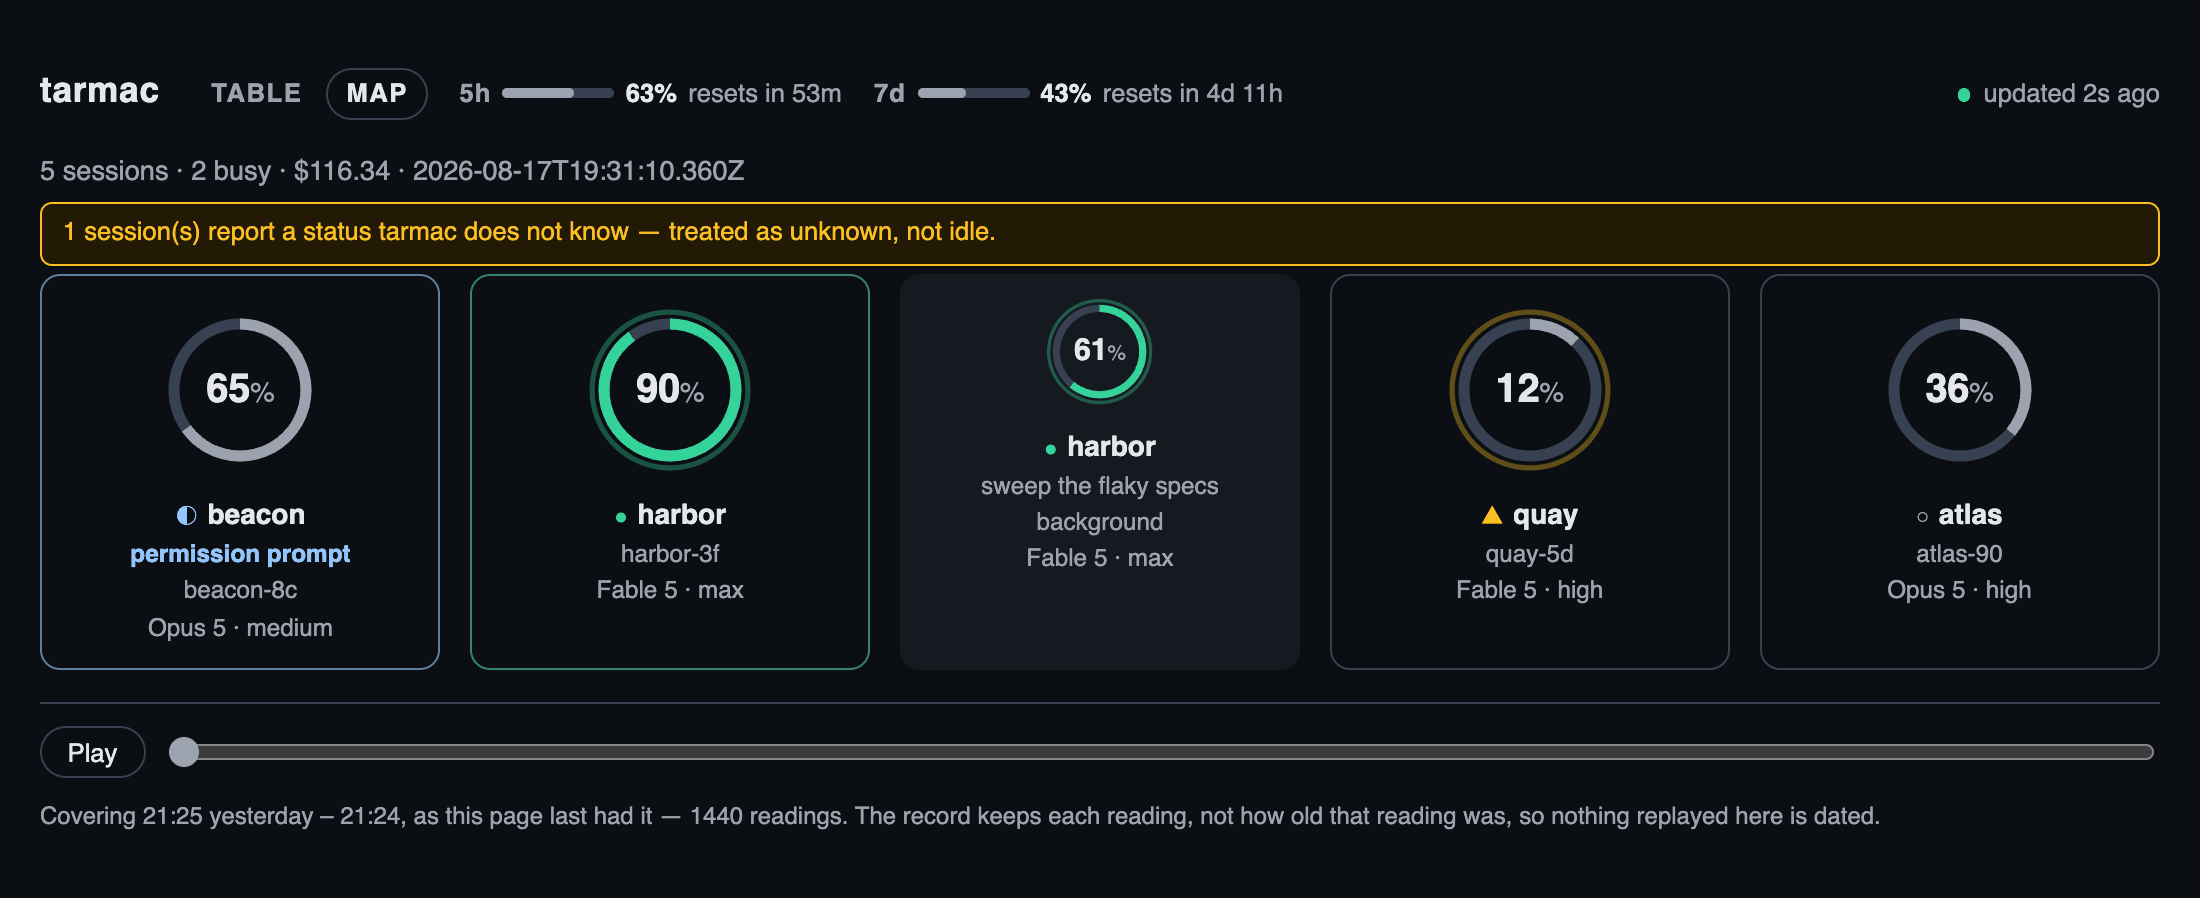
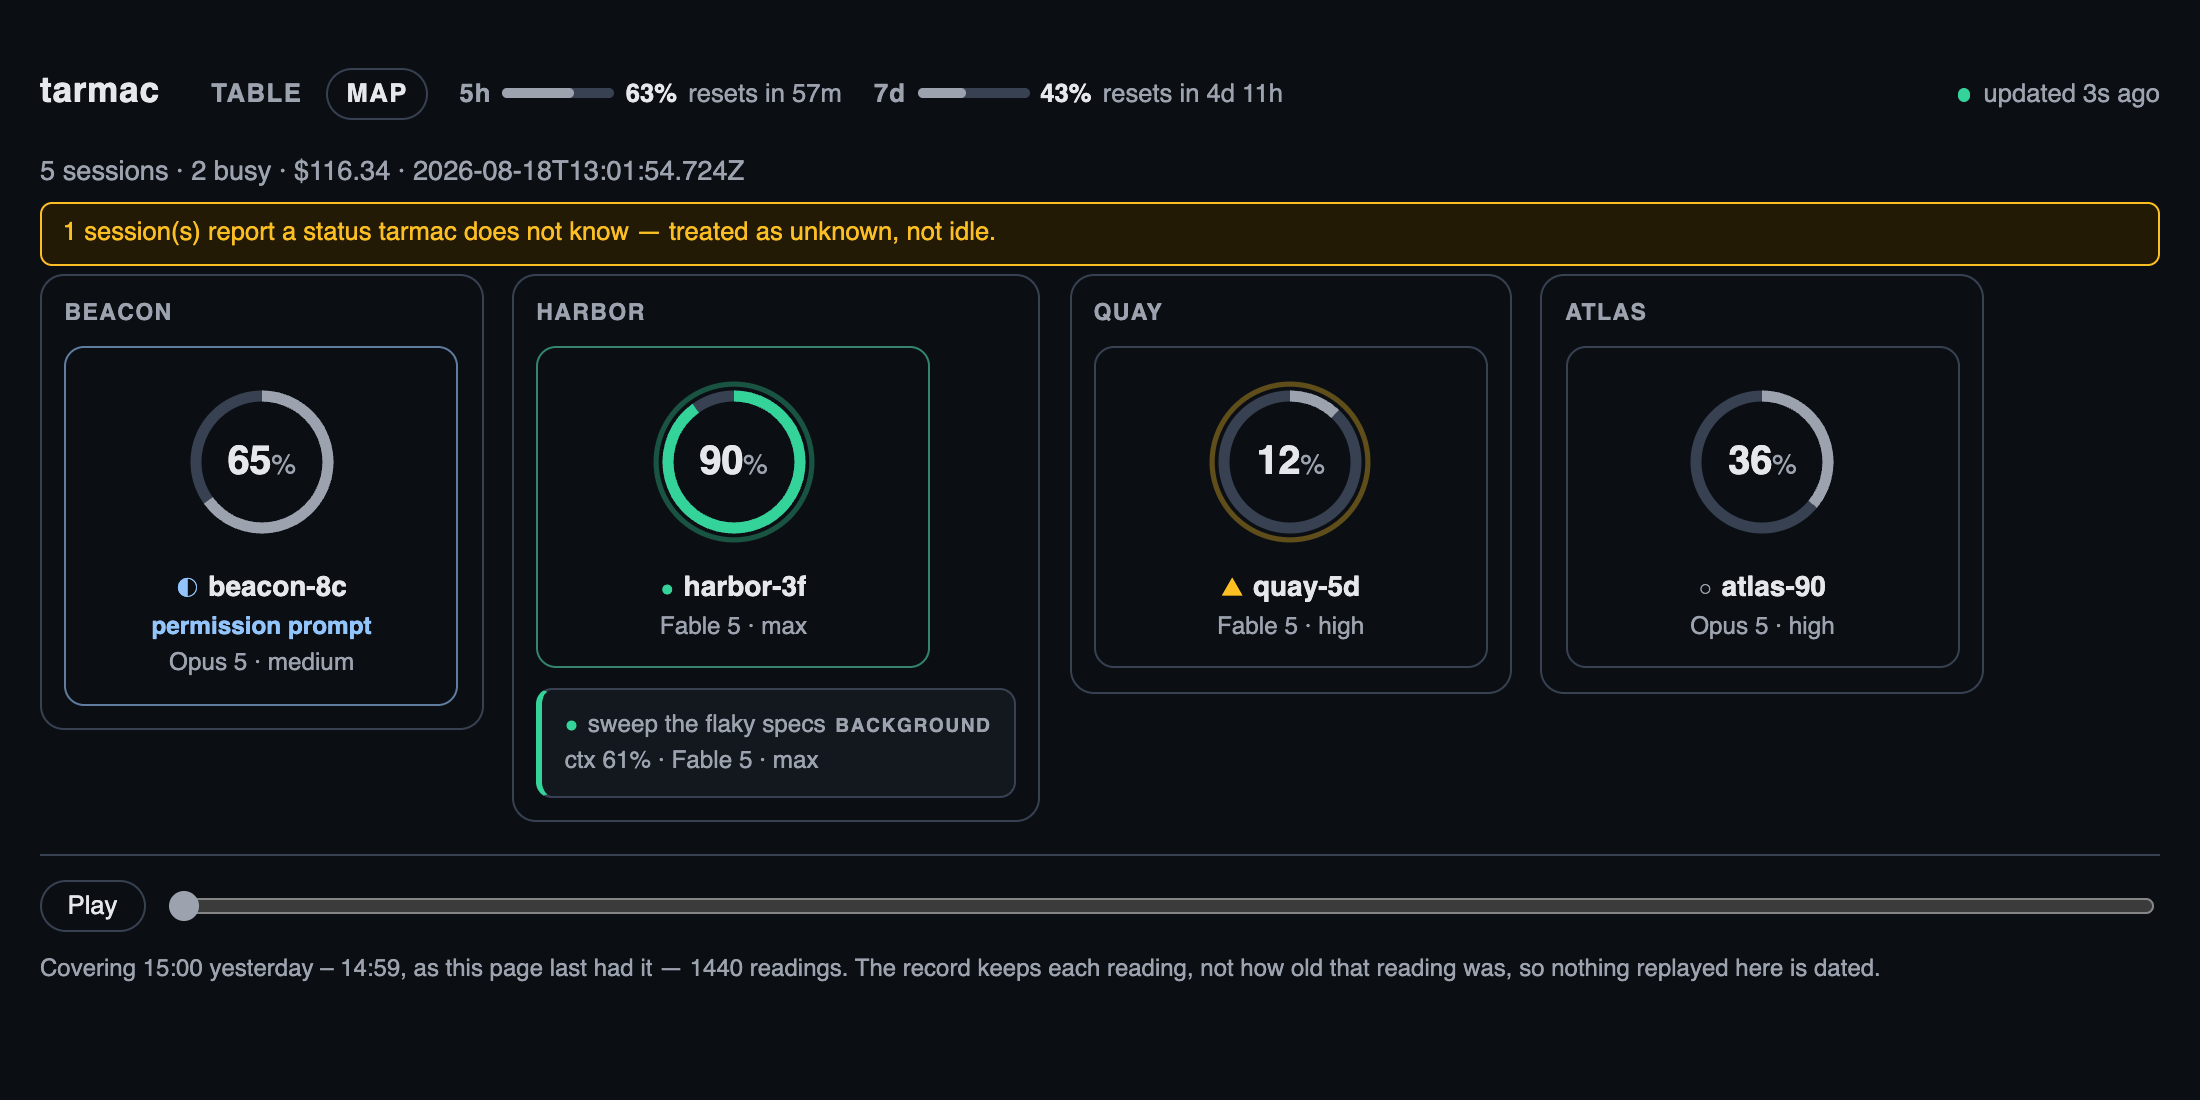
the docs and the stills say what the map draws: a berth is a directory, never a parentage

diff --git a/docs/MANUAL.md b/docs/MANUAL.md
@@ -332,7 +332,8 @@ says fewer things (below).
 The sort puts `waiting` first, then busy, then unknown, with idle last — the row that has
 stopped until someone answers it is the one that must not be under the fold, and a fleet holds
 one or two of those at a time. It is the fleet's own order, the one the table uses; the map
-draws it with each agent lifted out to sit beside its session (below).
+groups it into berths (below), each of which takes its place at its first node — so a session
+halted on a human lifts the frame around it to the front of the page along with itself.
 
 The state and the reading are two different clocks and are never merged. `busy` comes from
 `claude agents --json`, read at the moment you asked; the percentage comes from a file that
@@ -380,21 +381,31 @@ answer this tool exists to refuse. Under `prefers-reduced-motion: reduce` it sto
 stays as a faint ring: the movement goes, the fact it carries does not. It is also written out
 beside the dial, so the claim is in the markup and not only in the drawing.
 
-**Background agents.** `claude agents --json` prints interactive and background sessions in
-one array, and publishes nothing that ties an agent to whoever dispatched it. So the map does
-not draw one: an agent is a strip placed *next to* the session sharing its working directory —
-the only field both carry — and it keeps a node of its own, with its own project on it, even
-when no session matches. An edge would claim a parentage the source does not contain; nesting
-would let this page show a smaller fleet than the table beside it; and nothing points at the
-neighbouring node either, because the grid wraps where the viewport says and the fleet's sort
-can hand the same agent a different neighbour on the next poll.
+**Berths: the nodes are grouped by working directory.** A frame per directory, labelled with
+its project in small capitals, the sessions of that directory as cards inside it and the
+agents docked underneath as strips, across the frame. The working directory is the only field
+every kind of node carries, so it is the only thing the page can group by — and the label is
+the entire claim. **A berth says "read in the same directory". It never says who dispatched
+whom.** `claude agents --json` publishes no such field, so a berth holding two sessions and
+two agents makes no claim about which of the four asked for which: no label, no position and
+no line inside a frame means "parent of". The day that relation is published, it can be drawn
+between nodes already sitting side by side, without a frame moving.
 
-A strip is a band of text, left-aligned, half the height of the card beside it: the state in
-the same glyph a node uses and again in a three-pixel accent down its left edge, then the
-project, the kind it calls itself, and the prompt it was named after on the line below —
-ellipsised to that line. A waiting agent captions itself with what it waits for, like any
-other node. What it has no room for and no source for is the dial: the arc, its weight and
-the halo are all drawn from a statusline frame, and there is no terminal here to draw one. A
+Two directories that end in the same folder name are two berths wearing one label — the label
+is the basename, and the full path is not printed on this page any more than anywhere else. A
+node whose working directory the source did not publish is a berth of its own, labelled
+`no directory`: two directories nobody could read are not the same directory. So is an agent
+whose directory matches no session — the terminal it was dispatched from has been closed since
+— because a frame is a claim about a directory, and that agent's is nobody else's.
+
+**Background agents.** An agent is a strip: a band of text, left-aligned, half the height of a
+card, docked under the cards of its berth. The state in the same glyph a node uses and again in
+a three-pixel accent down its left edge, then the prompt it was named after — ellipsised to
+its line — and the kind it calls itself at the end of it. Not the project: the berth around it
+says the directory once, for every node in it. A waiting agent captions itself with what it
+waits for, like any other node. What it has no room for and no source for is the dial: the
+arc, its weight and the halo are all drawn from a statusline frame, and there is no terminal
+here to draw one. A
 ring on an agent could never fill, and the middle of it said `not chained` — the words of a
 fault someone could go and repair (`tarmac install`), about a session no install can cover.
 
@@ -445,6 +456,12 @@ A replay is never allowed to pass for the present:
 - **no halos.** The halo means a reading landed moments ago, which is never true of a sample
 - a session absent from a sample is absent from the map, never a dial at zero
 - an agent replays as its kind and its numbers. The ring holds no names, so neither does this
+  — and a replayed card is headed by its project where a live one, framed by a berth that
+  already says the directory, is headed by its session name
+- **no berths.** The ring keeps each reading and never the working directory it was read in,
+  so a replayed fleet has nothing to group by and is drawn flat. The alternative was to widen
+  the record so a frame could be drawn around the past; the record already shows less than the
+  live view does, on purpose, and one more field in every sample of 1440 buys one border
 - the poll goes on underneath, so returning to now is instant and a page left on replay does
   not rot
 - the banner carries `role="status"` and the minute travels with the handle as its

diff --git a/README.md b/README.md
@@ -66,17 +66,27 @@ sends no such mark — curl, a script — is left alone. The listening rules:
 <picture>
   <source media="(prefers-color-scheme: dark)" srcset="docs/media/map-dark.png">
   <img src="docs/media/map-light.png" width="1100"
-       alt="The tarmac map, live. Five nodes: beacon halted on a permission prompt, harbor busy with its context arc at 90%, a background agent named after its prompt beside it, quay reporting a status tarmac does not know, and atlas idle at 36%. The account's five-hour and seven-day gauges sit above them, and one warning above the fleet names the unrecognised status rather than filing it as idle.">
+       alt="The tarmac map, live. Four framed groups, one per working directory and labelled with its project: beacon, holding a session halted on a permission prompt; harbor, holding a session busy with its context arc at 90% and a background agent docked under it as a strip named after its prompt; quay, reporting a status tarmac does not know; and atlas, idle at 36%. A frame says only that its nodes were read in the same directory — nothing inside one claims that any node dispatched another. The account's five-hour and seven-day gauges sit above them, and one warning above the fleet names the unrecognised status rather than filing it as idle.">
 </picture>
 
 The tab in the header swaps the table for the same fleet as nodes — one per session, the arc
 its context, the shape by the name its state. A background agent has no terminal behind it to
 draw a frame with, so it is a strip of text rather than a dial that could never fill. It is
-the same reading in the same fragment, so the two views can never disagree. Above the fleet
-are the account's five-hour and seven-day
+the same reading in the same fragment, so the two views can never disagree.
+
+The nodes are grouped by **working directory**: a frame per directory, labelled with its
+project, the sessions inside it as cards and the agents docked underneath as strips. That is
+the whole of what the frame claims — these were read in the same directory. It is not a
+parentage: `claude agents --json` publishes nothing that ties an agent to whoever dispatched
+it, so no label, no position and no line inside a frame says one node asked for another. An
+agent whose directory matches no session gets a frame of its own rather than somebody else's.
+
+Above the fleet are the account's five-hour and seven-day
 [gauges](docs/MANUAL.md#the-accounts-two-windows); under it a **scrubber over the day this
 serve has seen** — drag it and the nodes render
-the fleet as it was at that minute, press play and the day walks past.
+the fleet as it was at that minute, press play and the day walks past. Replayed, they are
+drawn flat and unframed: the record keeps each reading and never the directory it was read in,
+so there is nothing to group a past fleet by, and inventing one is not on the table.
 
 The rules the table follows, the map follows: a reading past the freshness threshold is drawn
 thin, amber and dated, a percentage nobody measured is an empty dotted dial rather than a ring

diff --git a/CHANGELOG.md b/CHANGELOG.md
@@ -12,11 +12,28 @@ follow [SemVer](https://semver.org/spec/v2.0.0.html).
 
 ### Changed
 
+- **The map groups its nodes by working directory.** One frame — a berth — per directory,
+  labelled with its project, the sessions of that directory as cards inside it and the agents
+  docked underneath as strips. It replaces a flat grid in which an agent was merely placed next
+  to a session and had to name its own directory to be checked, on a page where the grid wraps
+  wherever the viewport says. What the frame claims is exactly one thing: these nodes were read
+  in the same directory. **It is not a parentage** — `claude agents --json` publishes nothing
+  that ties an agent to whoever dispatched it, so no label, no position and no line inside a
+  berth says one node asked for another, and a berth holding two sessions and two agents makes
+  no claim about which of the four asked for which. An agent whose directory matches no session
+  gets a berth of its own instead of being filed last; a node whose directory the source did
+  not publish gets one labelled `no directory`, because two directories nobody could read are
+  not the same directory. The berths come in the fleet's own order, each taken at its first
+  node, so a session halted on a human still lifts itself — and now its frame — to the front.
+  Inside a berth a card is headed by its session name, the project having moved to the label
+  above it. Replays stay flat: the record keeps each reading and never the directory it was
+  read in, and it is not being widened to draw a border. (#58)
+
 - **A background agent is drawn as a strip on the map, not as a small dial.** It was a card at
   three quarters scale, which meant a context ring on a session that has no terminal to draw a
   statusline frame with — a gauge that can never fill, captioned "not chained", the words of a
   fault someone could go and fix. The strip carries what the source really publishes about an
-  agent: its state, its project, the kind it calls itself, and the prompt it was named after,
+  agent: its state, the kind it calls itself, and the prompt it was named after,
   with the state in the same glyph and a three-pixel accent down its left edge. Nothing is
   claimed where the source published nothing — not a percentage, not a dash. What it did
   publish is printed inline and labelled, `ctx 41% · Fable 5 · max`, dated when the reading is
